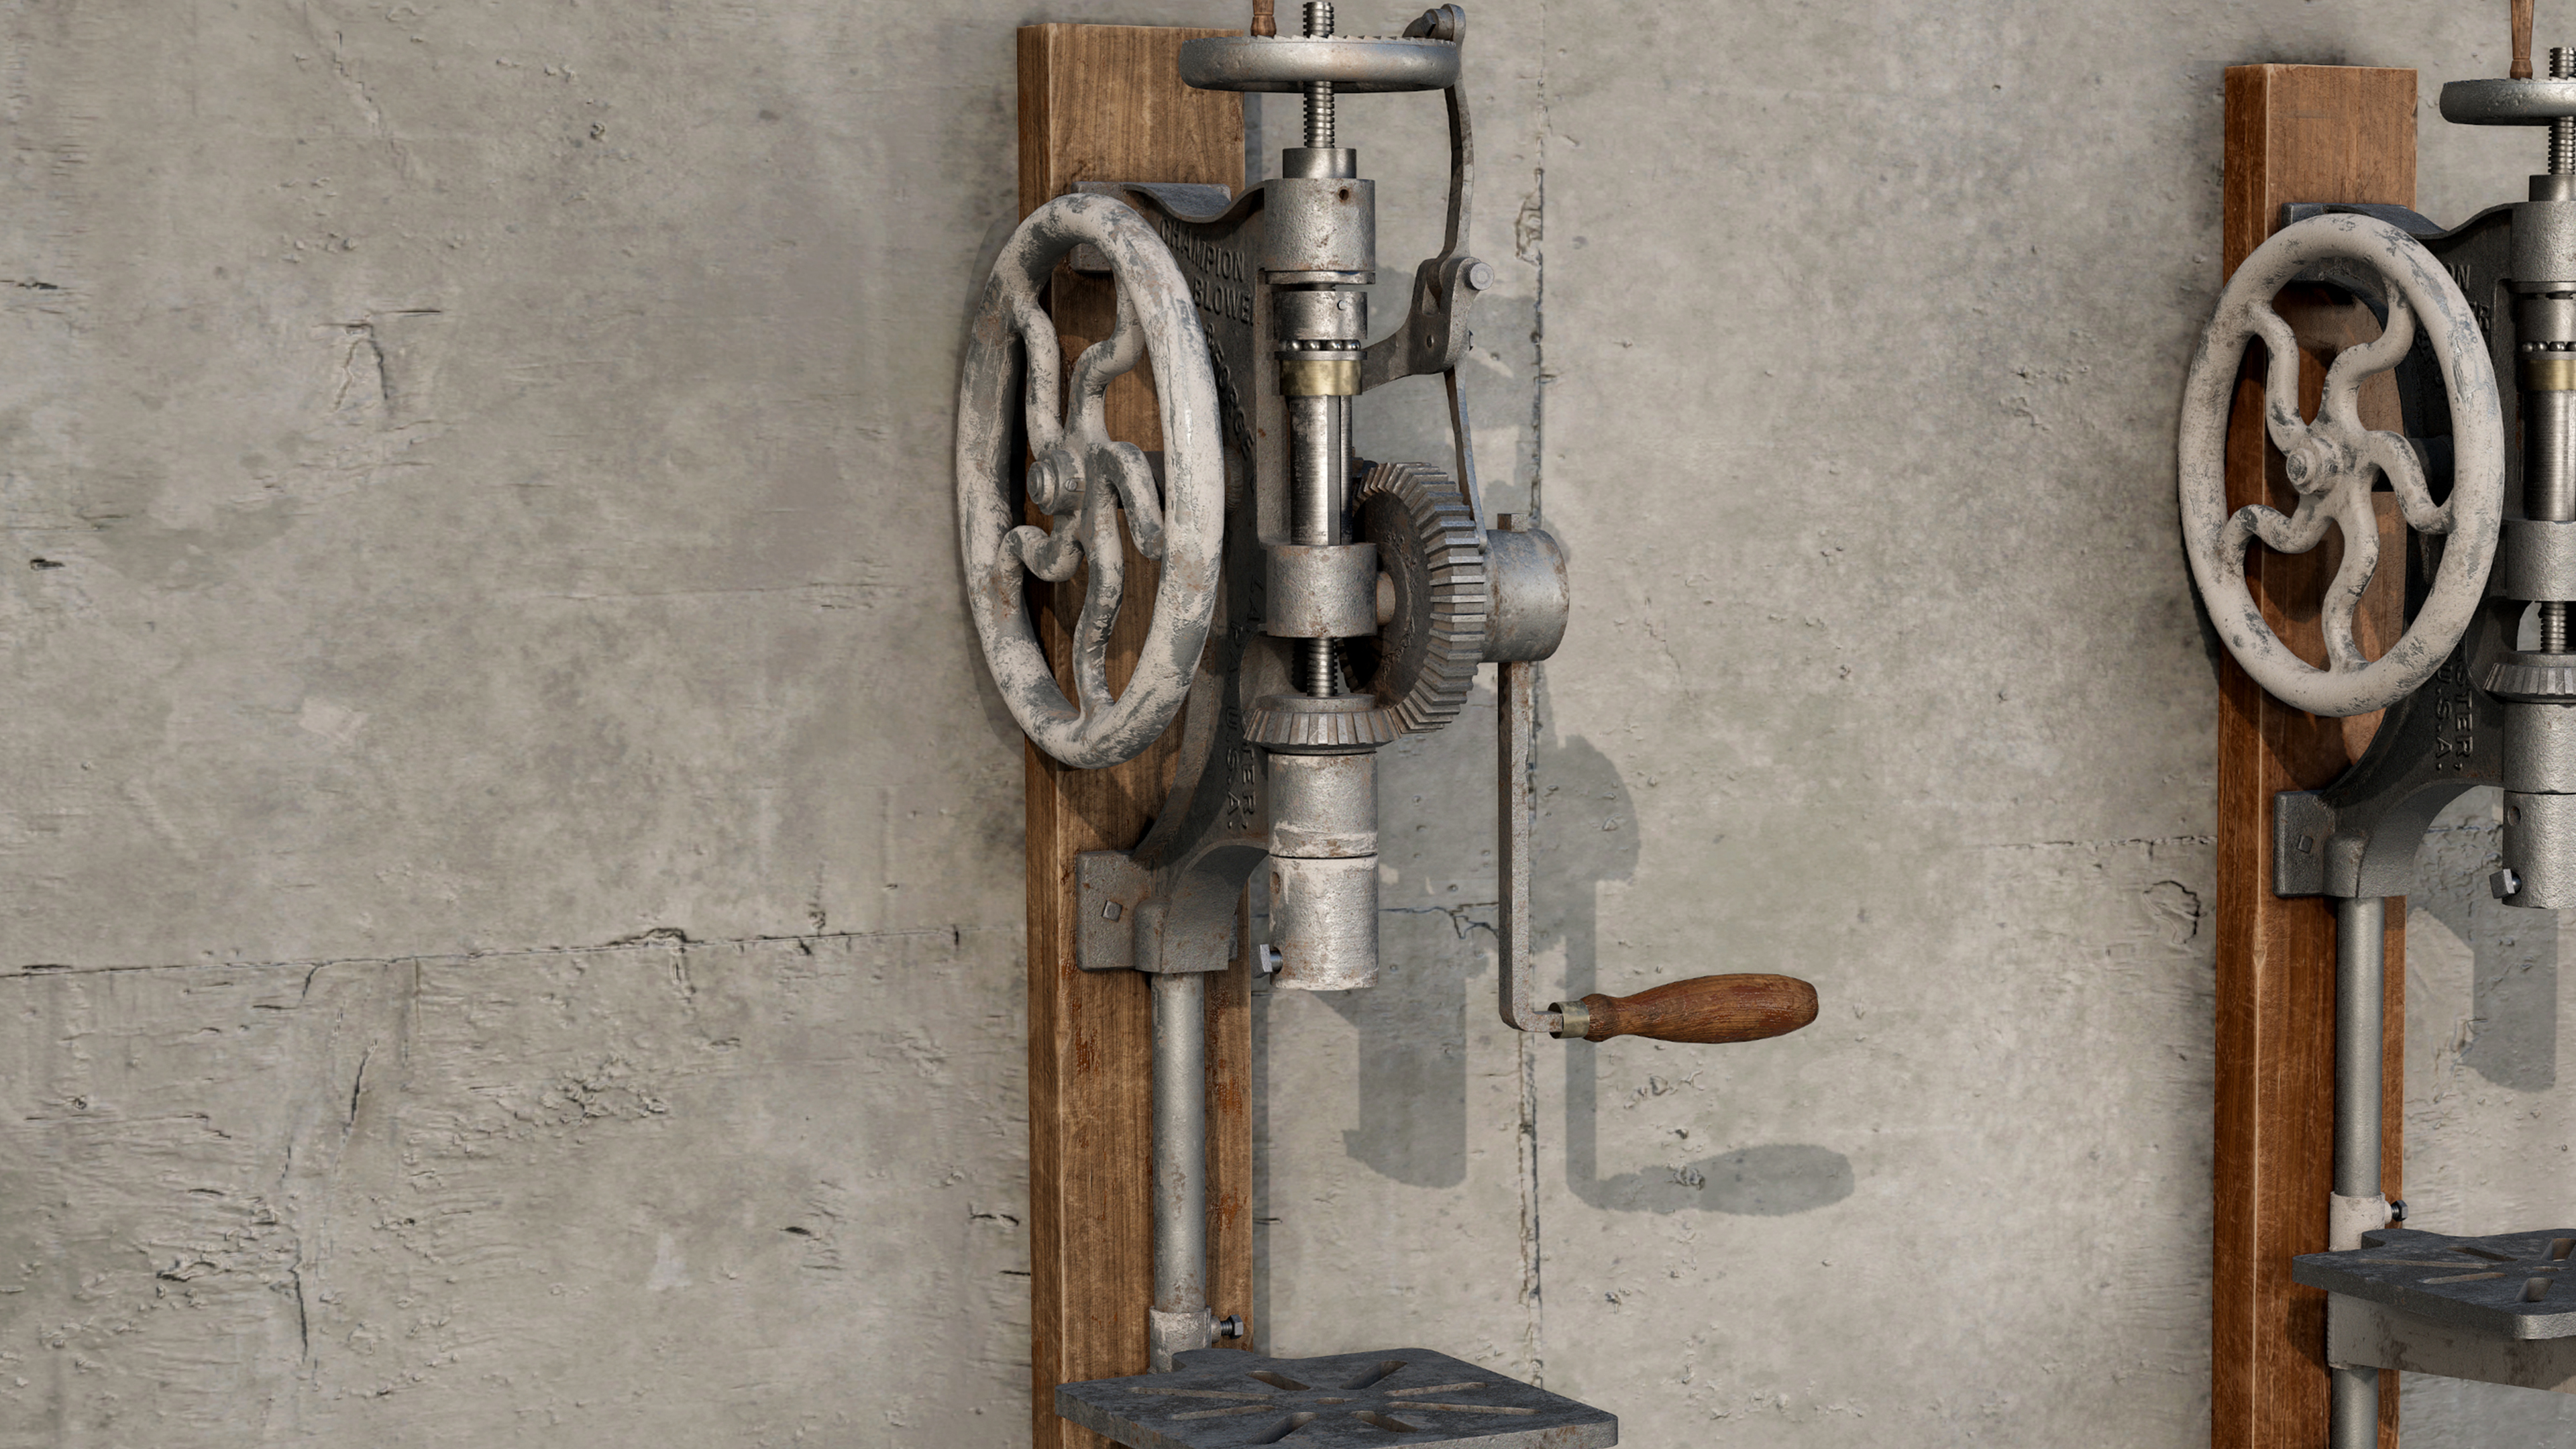
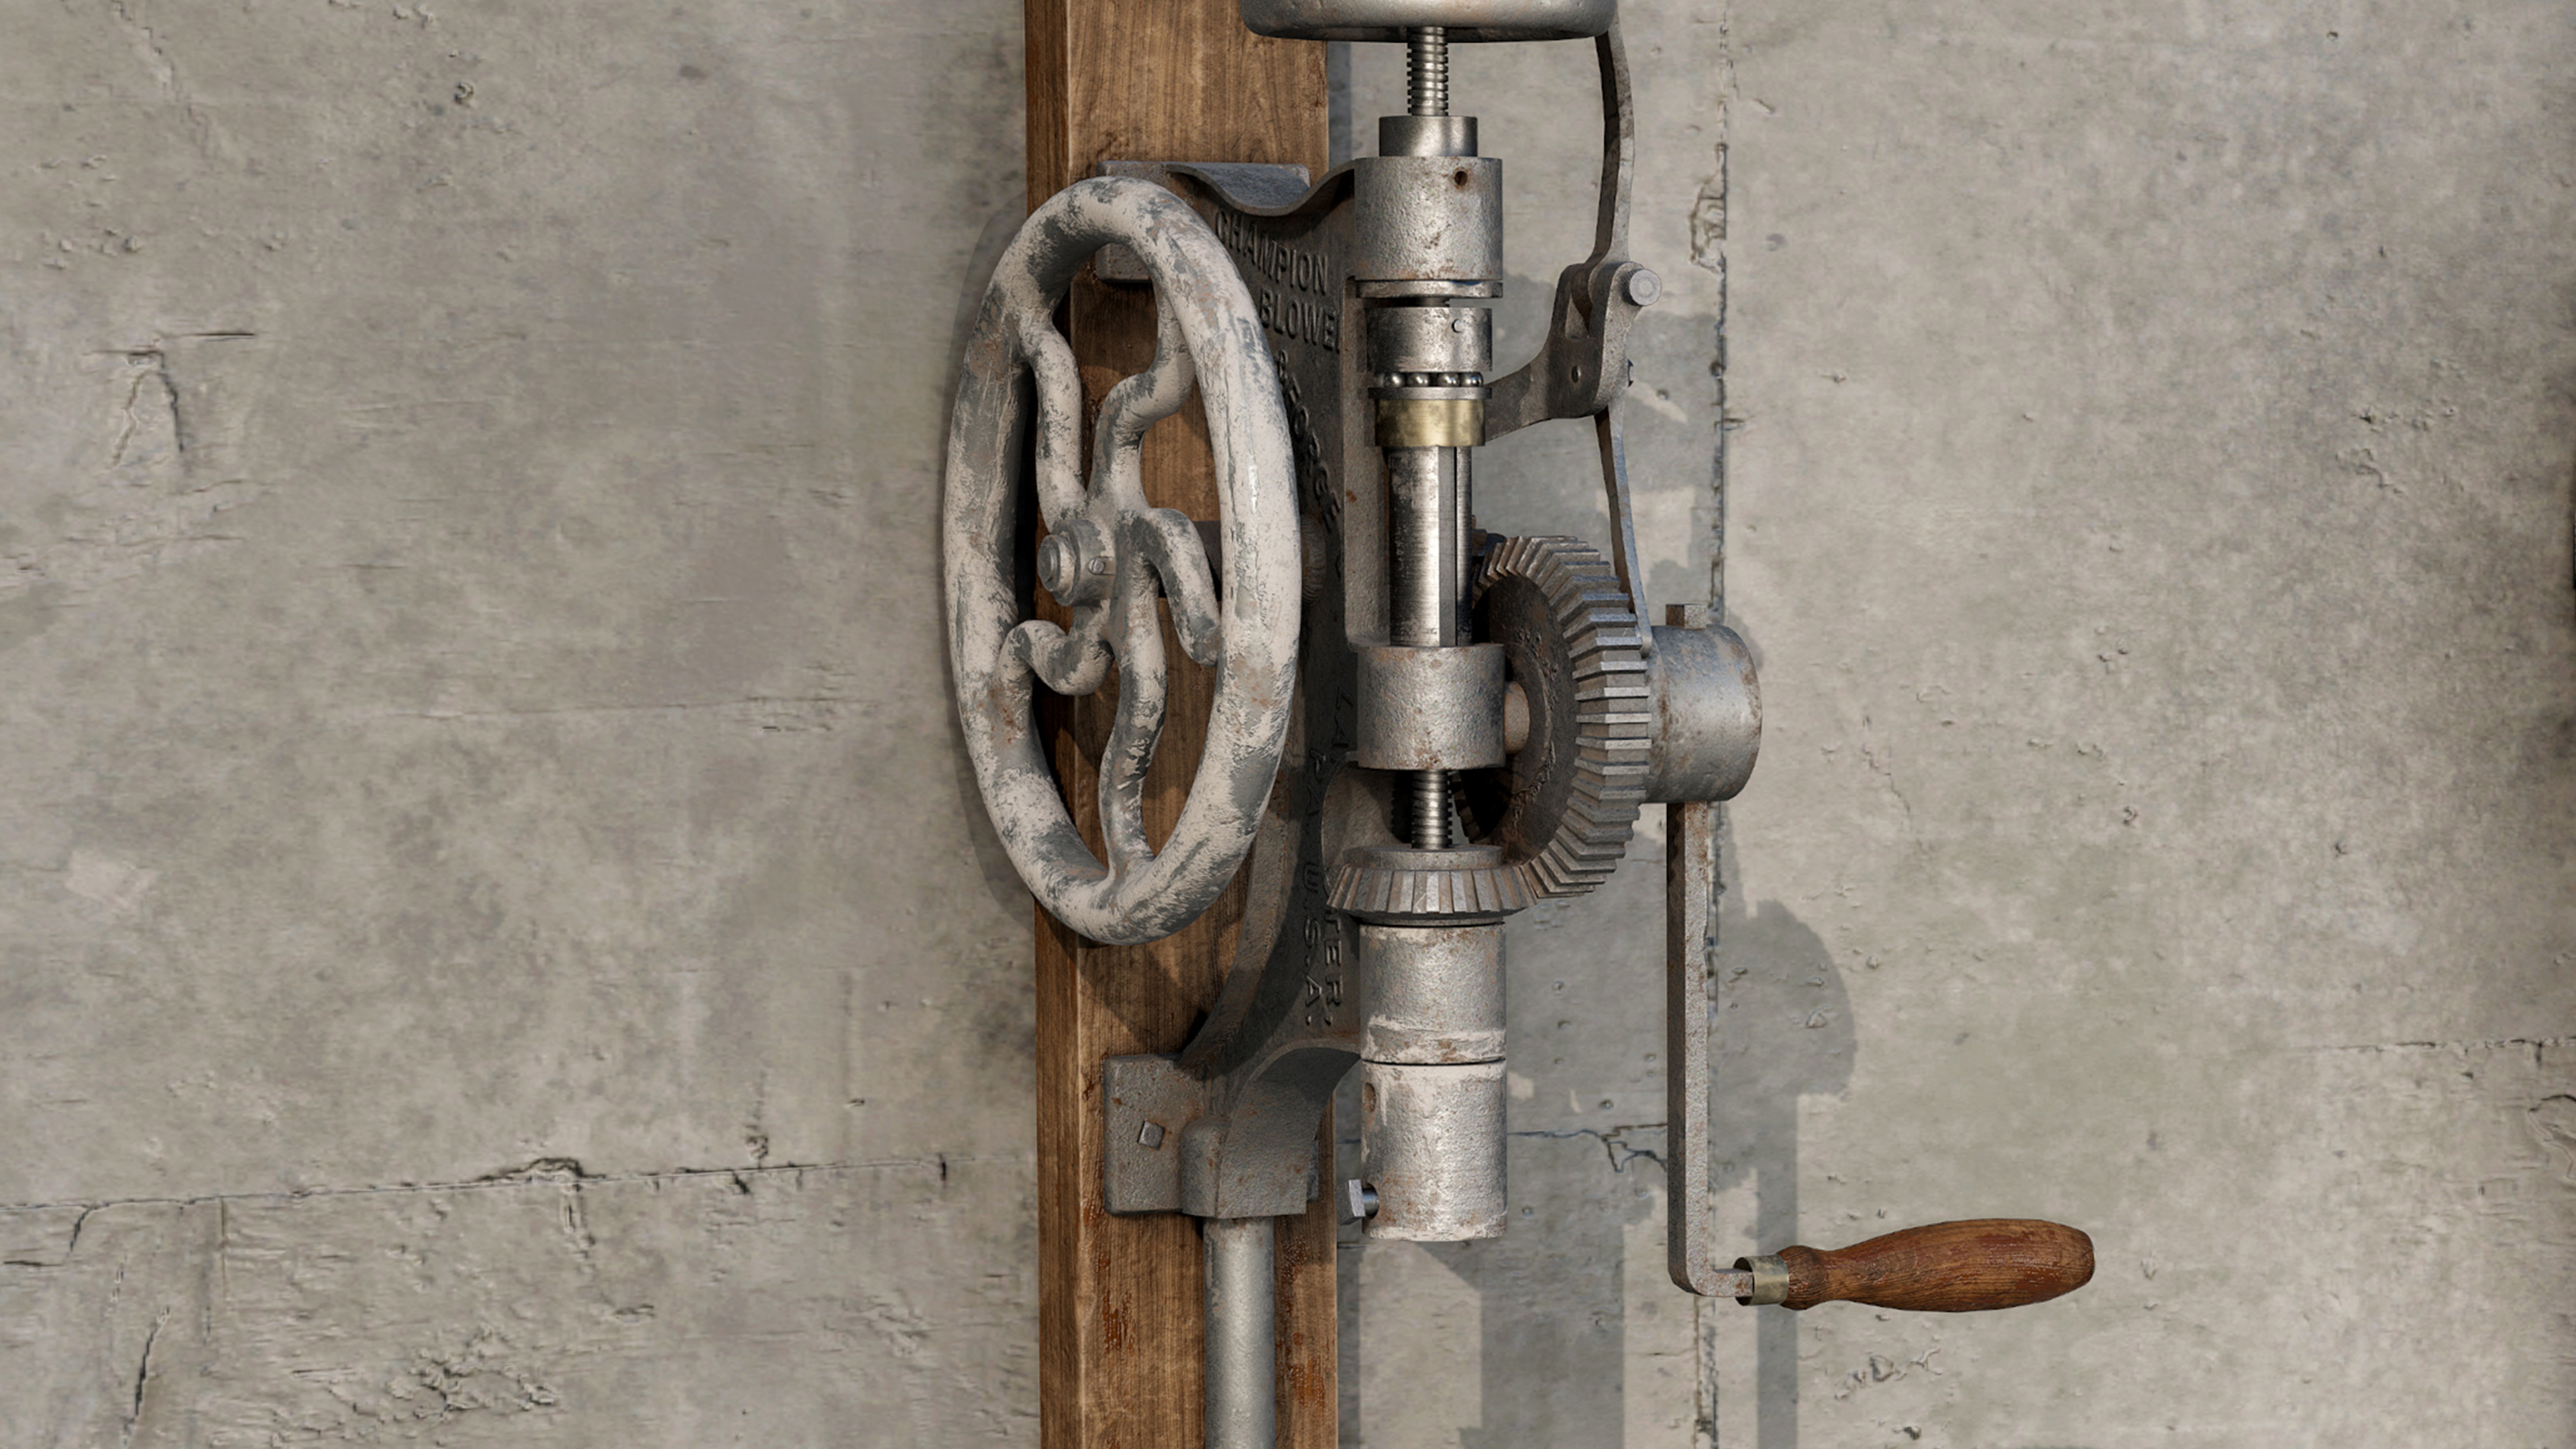
home

diff --git a/style.css b/style.css
@@ -113,8 +113,8 @@ a { text-decoration: none; color: inherit; }
 /* ─── CATEGORY GRID (HOME) ──────────────────────────────── */
 .category-grid {
   display: grid;
-  grid-template-columns: repeat(auto-fill, minmax(300px, 1fr));
-  gap: 28px;
+  grid-template-columns: repeat(3, 1fr);
+  gap: 16px;
   border-top: 1px solid var(--border);
   padding-top: 48px;
 }
@@ -127,7 +127,7 @@ a { text-decoration: none; color: inherit; }
 .card-thumb {
   position: relative;
   width: 100%;
-  aspect-ratio: 16 / 10;
+  aspect-ratio: 1 / 1;
   background: var(--surface);
   overflow: hidden;
   border-radius: 3px;
@@ -137,13 +137,14 @@ a { text-decoration: none; color: inherit; }
   width: 100%;
   height: 100%;
   object-fit: cover;
+  object-position: center;
   display: block;
 }
 
 .card-overlay {
   position: absolute;
   inset: 0;
-  background: rgba(0,0,0,0.3);
+  background: rgba(0,0,0,0.4);
   display: flex;
   flex-direction: column;
   align-items: center;